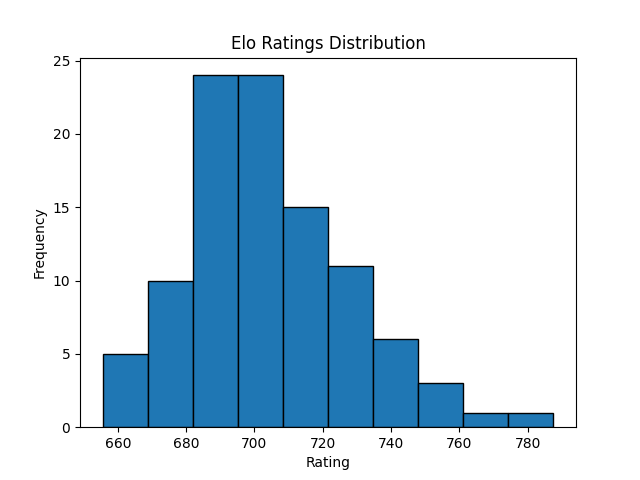
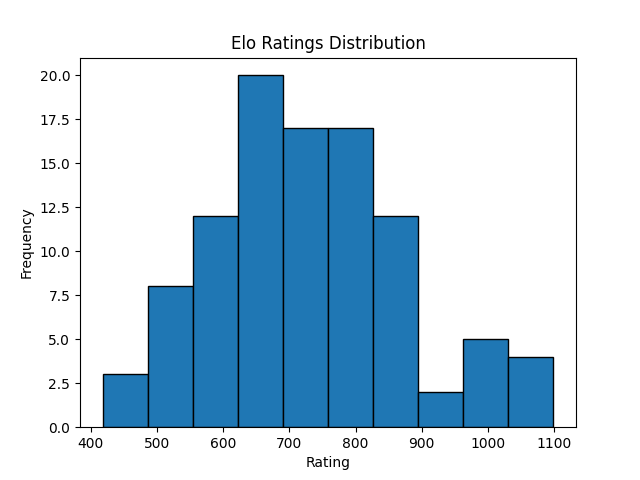
minor updates

diff --git a/main.py b/main.py
@@ -14,12 +14,12 @@ def run_single_simulation():
     num_players = 100  # Number of players <328
     players_per_tournament = 16  # Players per tournament
     num_tournaments = 5000  # Number of tournaments
-    base_k = 32  # K-factor
+    base_k = 512  # K-factor
     k_min = 20  # Increased to amplify dynamic K-factors
     k_max = 80  # Increased to reward top performers more in later rounds
-    decay_factor = 0  # Added a small decay factor to stabilize ratings over time
+    decay_factor = 0.2  # Added a small decay factor to stabilize ratings over time
     initial_rating = 700  # Reduced slightly to create more spread in the ratings
-    tau = 100  # Reduced to increase the gap impact in the expected score calculation
+    tau = 400  # Reduced to increase the gap impact in the expected score calculation
     k_scaling = "static"  # "sqrt" scaling tends to favor higher-rated players
     lam = 1.3  # Deviation scaling factor
 
@@ -191,4 +191,4 @@ def run_n_simulations(num_simulations=10):
 
 
 if __name__ == "__main__":
-    run_n_simulations(20)
+    run_single_simulation()

diff --git a/Readme.md b/Readme.md
@@ -33,6 +33,10 @@ Where:
 
 ## Specifics of integration bee
 
+
+
+### Rating system
+
 Integration bee competitions are rare and expensive events hosting only around 16 participants each time.
 They also progress in complexity and overall skill levels. This means the rating has to be responsive, yet stable enough. It also has to account for the fact that recent wins have to be more valued than the old results.
 Additionally, the higher win-loss margin will affect the change in rating more by adjusting the "actual result" in elo formula by using float values in range between 0 and 1 instead of 0 and 1 only.
@@ -45,11 +49,9 @@ therefore we have introduced dynamic K that grows towards later rounds. Neverthe
   + `log` - K grows logarithmically
   + `custom` - allows to provide custom scale for K factor
 
-## Rating system
-
 We use standard elo with adjustable tau and K parameters. We also adjust initial player's rating, since it remains unknown which one would suit this sport the most.
 
-## Decay
+### Decay
 
 We adjust to old-recent recent matches balance by introducing traditional for NBA decay factor. This means that over time, preferably once a season, we take all the results and make them approach the mean.
 
